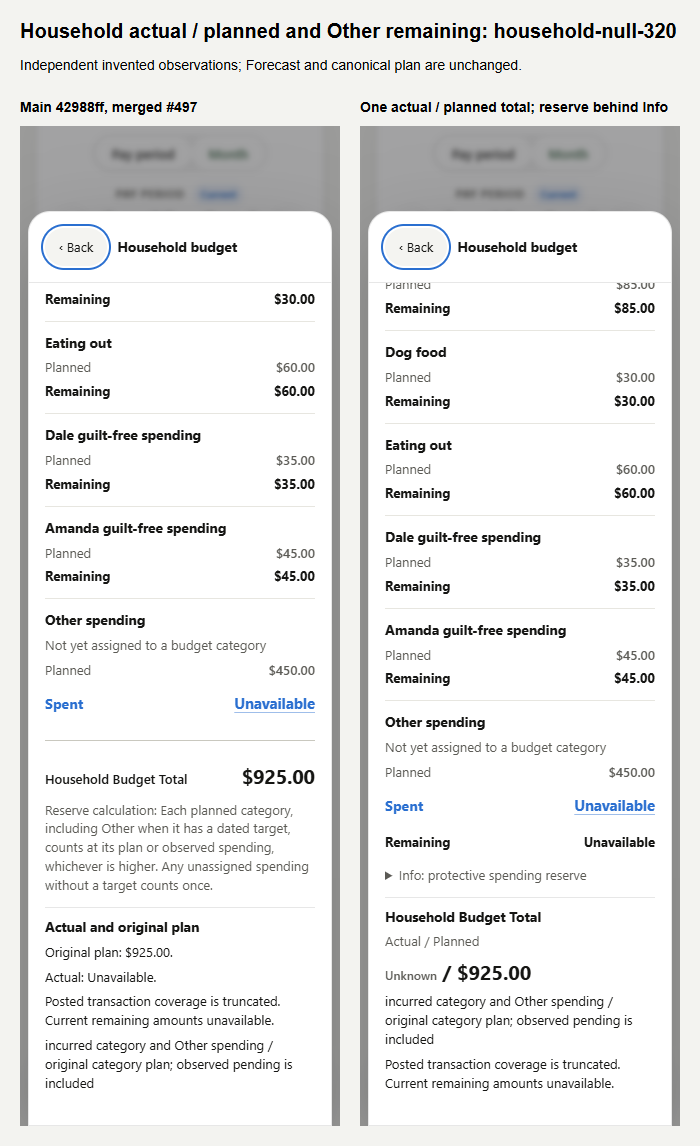
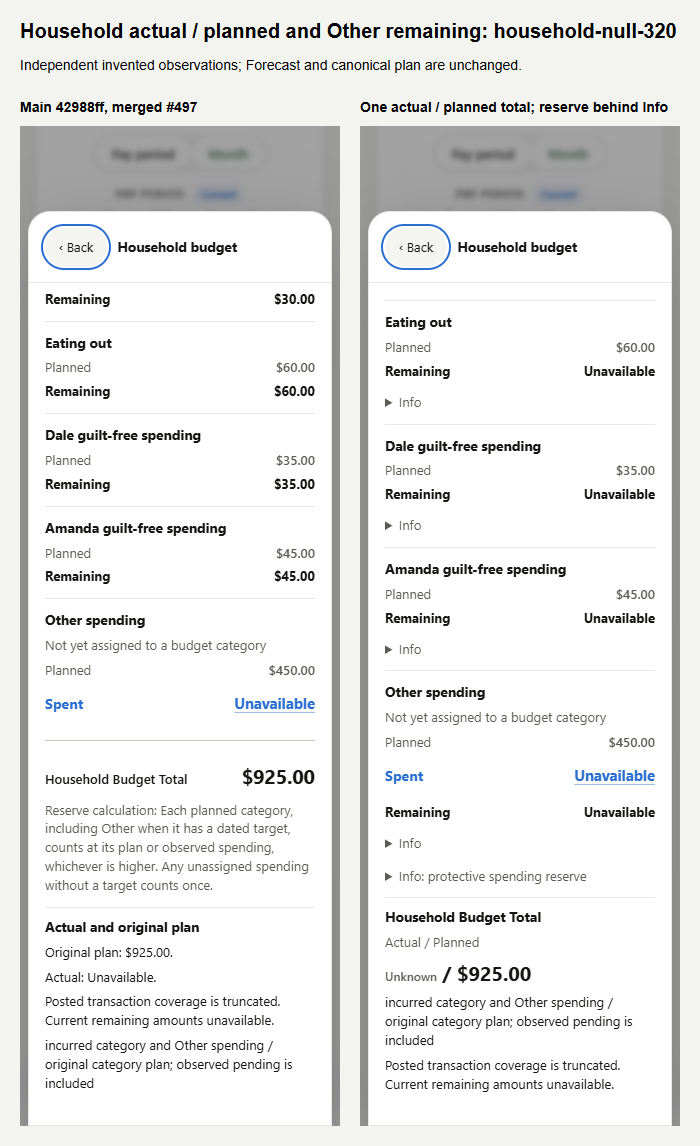
fix(budget): withhold exact remaining under incomplete pending evidence

diff --git a/public/plan.js b/public/plan.js
@@ -2200,6 +2200,7 @@ function householdBudgetCategoryHtml(row, opts = {}) {
   const contextHtml = context
     ? `<p class="household-budget-context">${context}</p>` : '';
   const recon = Array.isArray(row.recon) ? row.recon : [];
+  const remainingUnavailable = opts.remainingEvidenceIncomplete === true;
   const metrics = [];
   if ((!other && !historicalPlanUnknown || datedOtherPlan) && row.planned != null) {
     if (historicalPlanUnknown) metrics.push(householdBudgetMetric('Configured target', row.planned, { estimated }));
@@ -2209,7 +2210,7 @@ function householdBudgetCategoryHtml(row, opts = {}) {
     metrics.push(householdBudgetMetric('Spent', row.spent, { recon, id: row.id, unavailableText: datedOtherPlan ? 'Unavailable' : null }));
   }
   if ((!other || datedOtherPlan) && !historicalPlanUnknown && (row.remaining != null || datedOtherPlan)) {
-    metrics.push(householdBudgetMetric('Remaining', row.remaining, { remaining: true, estimated, unavailableText: datedOtherPlan ? 'Unavailable' : null }));
+    metrics.push(householdBudgetMetric('Remaining', remainingUnavailable ? null : row.remaining, { remaining: true, estimated, unavailableText: datedOtherPlan || remainingUnavailable ? 'Unavailable' : null }));
   }
   const kind = other ? 'other' : 'category';
   const projected = (!other || datedOtherPlan) && !historicalPlanUnknown && row.projected && row.remaining != null
@@ -2220,11 +2221,12 @@ function householdBudgetCategoryHtml(row, opts = {}) {
     ${contextHtml}
     ${historicalPlanUnknown && (!other || datedOtherPlan) ? '<p class="household-budget-context" data-budget-historical-original-plan="unavailable">Historical original plan unavailable. No dated plan snapshot confirms this period\'s target or remaining amount. Today\'s configured target does not establish the historical plan.</p>' : ''}
     <dl class="household-budget-metrics">${metrics.join('')}</dl>
+    ${remainingUnavailable && !historicalPlanUnknown && (!other || datedOtherPlan) ? `<details class="household-budget-remaining-info" data-budget-remaining-info><summary>Info</summary><p>${budgetBrowseEscape(opts.remainingEvidenceReason || 'Exact remaining spending is unavailable because period evidence is incomplete.')}</p></details>` : ''}
     ${projected}
   </div>`;
 }
 
-function calendarBudgetHtml(period, liveOverlay, plan) {
+function calendarBudgetHtml(period, liveOverlay, plan, opts = {}) {
   if (period && period.operatingPlanUnavailable) {
     return `<div class="payday-household-budget" data-payday-household-budget>
       ${calendarCurrentUnavailableHtml(period)}
@@ -2234,7 +2236,9 @@ function calendarBudgetHtml(period, liveOverlay, plan) {
   // Forecast has no original-category-plan snapshot for completed periods.
   // Context changes presentation only; never rewrite the sealed native rows.
   const categoryContext = { historicalOriginalPlanUnavailable:
-    period?.timelineRole === 'past' || period?.lookback === true };
+    period?.timelineRole === 'past' || period?.lookback === true,
+    remainingEvidenceIncomplete: opts.remainingEvidenceIncomplete === true,
+    remainingEvidenceReason: opts.remainingEvidenceReason };
   const reserveRule = categoryContext.historicalOriginalPlanUnavailable ? ''
     : '<p class="operating-note" data-budget-reserve-rule>Reserve calculation: Each planned category, including Other when it has a dated target, counts at its plan or observed spending, whichever is higher. Any unassigned spending without a target counts once.</p>';
   const cycleText = householdBudgetCycleText(period);
@@ -4363,7 +4367,8 @@ function calendarWaterfallHtml(period, liveOverlay, alloc, plan, compactOverview
       { amount: period.periodBillLoad, trust: period.periodBillLoadTrust, trustRequired: true, barStart: period.afterBills, note: 'Period deduction, including required debt minimums' })}
     ${q('05', 'Balance after bills', planUnavailable ? unavailable : runningLeftoverHtml(period.afterBills != null ? period.afterBills : period.afterRemainingBills), 'balance',
       { amount: period.afterBills != null ? period.afterBills : period.afterRemainingBills, trust: period.afterBillsTrust, trustRequired: true, barStart: 0, note: 'Period income after the bill deduction' })}
-    ${q('06', 'Household budget', planUnavailable ? unavailable : calendarBudgetHtml(period, liveOverlay, plan), null,
+    ${q('06', 'Household budget', planUnavailable ? unavailable : calendarBudgetHtml(period, liveOverlay, plan,
+      compactOverview ? budgetRemainingEvidenceContext(period) : {}), null,
       { amount: period.budgetHold, trust: period.budgetHoldTrust, barStart: period.afterHouseholdBudget, note: 'Targets, actual spending and the period reserve' })}
     ${q('savings', compactOverview ? 'Savings' : 'Proposed savings', planUnavailable ? unavailable : fundingBody, null,
       { amount: fundingKnown ? funding.contribution : null, trust: fundingKnown ? funding.trust : 'unavailable', trustRequired: true, discloseUnknown: true, barStart: fundedBalanceKnown ? funding.afterProposedFunding : null, note: 'Named costs — proposed funding, separate from actual saved cash' })}
@@ -5955,6 +5960,16 @@ function budgetProgressAmountKnown(field) {
     && typeof field.amount === 'number' && Number.isFinite(field.amount);
 }
 
+function budgetRemainingEvidenceContext(period, asOf) {
+  // A projected allowance is labeled as such, and historical original plans
+  // are already withheld. Current Remaining requires complete actual evidence.
+  if (period?.projected || budgetBrowseHistorical(period)) return {};
+  const publication = arguments.length > 1 ? budgetProgressFor(period, asOf) : budgetProgressFor(period);
+  const actual = publication?.household?.actual;
+  return { remainingEvidenceIncomplete: !budgetProgressAmountKnown(actual) || actual.completeness !== 'complete',
+    remainingEvidenceReason: actual?.reason || 'Exact remaining spending is unavailable because period evidence is incomplete.' };
+}
+
 function budgetProgressValueHtml(pair, key) {
   const amount = (field, planned = false) => budgetProgressAmountKnown(field) && (!planned || field.amount >= 0)
     ? budgetBrowseMoney(field.amount, field.trust) : '<span class="budget-v3-unknown">Unknown</span>';
@@ -5993,9 +6008,11 @@ function budgetProgressEvidenceHtml(pair, key) {
 
 function budgetSpendingSectionHtml(period, ctx) {
   const rows = (period.householdBudget || []).filter(Boolean);
+  const remainingEvidence = budgetRemainingEvidenceContext(period, ctx.asOf);
   const planned = rows.filter(row => !row.informational && ((!row.otherSpending && !row.needsConfirmation)
     || (row.otherSpending && isValidIsoCalendarDate(row.targetEffectiveFrom) && budgetBrowseKnown(row.planned))));
-  const classified = planned.filter(row => budgetCategoryPresentation(row).spentKnown && budgetBrowseKnown(row.remaining));
+  const classified = planned.filter(row => !remainingEvidence.remainingEvidenceIncomplete
+    && budgetCategoryPresentation(row).spentKnown && budgetBrowseKnown(row.remaining));
   const over = classified.filter(row => budgetBrowseKnown(row.overspend) && row.overspend > 0);
   const model = budgetWindowModel(ctx), cycle = period.spendingCycle;
   const datesKnown = cycle && isValidIsoCalendarDate(cycle.start) && isValidIsoCalendarDate(cycle.end)
@@ -6020,8 +6037,10 @@ function budgetSpendingSectionHtml(period, ctx) {
     // native row/evidence intact, but do not relabel today's category targets
     // as historical plans, remaining amounts or progress geometry here.
     const displayRow = historicalPlanUnknown && (!row.otherSpending || budgetBrowseKnown(row.planned))
-      ? { ...row, planned: null, plannedTrust: 'unavailable', remaining: null, overspend: null } : row;
+      ? { ...row, planned: null, plannedTrust: 'unavailable', remaining: null, overspend: null }
+      : remainingEvidence.remainingEvidenceIncomplete ? { ...row, remaining: null, overspend: null } : row;
     const state = budgetCategoryPresentation(displayRow);
+    if (remainingEvidence.remainingEvidenceIncomplete && state.spentKnown) state.label = 'Remaining unavailable';
     const meta = state.other && !budgetBrowseKnown(displayRow.planned) ? budgetBrowseEscape(row.note || 'Not yet assigned to a category')
       : `<span class="budget-cash-sr">Spent </span>${budgetBrowseMoney(row.spent, row.trust)}<span aria-hidden="true"> / </span><span class="budget-cash-sr"> of planned </span>${budgetBrowseMoney(displayRow.planned, state.trust)}`;
     return `<button type="button" class="budget-category-row is-${state.kind}" data-budget-category-open="${budgetBrowseEscape(row.id)}" data-budget-browse-origin="spending" aria-haspopup="dialog">

diff --git a/test/browser-budget-household-total.js b/test/browser-budget-household-total.js
@@ -3,12 +3,15 @@ const assert=require('node:assert/strict'),fs=require('node:fs'),path=require('n
 const fx=require('./fixtures/other-period-target'),root=process.env.ATLAS_HOUSEHOLD_TOTAL_ROOT||path.join(__dirname,'..');
 const out=process.env.ATLAS_BUDGET_SCREENSHOTS_DIR||path.join(require('node:os').tmpdir(),'household-total-browser');fs.mkdirSync(out,{recursive:true});
 const baseline=process.env.ATLAS_HOUSEHOLD_TOTAL_BASELINE==='1';
+const beforeP1=process.env.ATLAS_HOUSEHOLD_TOTAL_BASELINE==='5b';
 // Invented published observations: six plans = 475, groceries spent = 110.37.
 const actuals={0:'110.37',137.26:'247.63',450:'560.37',618.73:'729.10',1034.19:'1,144.56'};
 const remaining={0:'450.00',137.26:'312.74',450:'0.00',618.73:'−$168.73',1034.19:'−$584.19'};
 (async()=>{const browser=await chromium.launch({executablePath:process.env.CHROME_PATH,headless:true});
-try{for(const width of [1440,390,320])for(const state of width===320?[0,137.26,450,618.73,1034.19,null,'history','next']:width===390?[137.26,450,618.73]:[137.26,618.73]){
- const historical=state==='history',future=state==='next',f=fx.build(typeof state==='number'?state:137.26,historical?'2026-10-18':fx.asOf);
+try{for(const width of [1440,390,320])for(const state of width===320?[0,137.26,450,618.73,1034.19,null,'history','next','pending-partial','pending-unknown','complete-pending']:width===390?[137.26,450,618.73,'pending-unknown']:[137.26,618.73,'pending-partial']){
+ const historical=state==='history',future=state==='next',incompletePending=state==='pending-partial'||state==='pending-unknown',completePending=state==='complete-pending';
+ const f=fx.build(typeof state==='number'?state:137.26,historical?'2026-10-18':fx.asOf,
+  {pendingCoverage:incompletePending?state.slice(8):'complete',pendingOther:completePending?17.43:undefined});
  if(state===null)f.packet.transactionCoverage='truncated';
  const page=await browser.newPage({viewport:{width,height:1000},colorScheme:'light',reducedMotion:'reduce'}),errors=[],external=[];
  page.on('pageerror',e=>errors.push(e.message));
@@ -31,7 +34,14 @@ try{for(const width of [1440,390,320])for(const state of width===320?[0,137.26,4
   assert.match(await body.innerText(),/Actual \/ Planned/);
   const total=body.locator('[data-household-budget-progress-total]');
   const a=await total.locator('[data-budget-ratio-actual]').innerText(),p=await total.locator('[data-budget-ratio-plan]').innerText();
-  assert.match(a,state===null||future?/Unknown/:new RegExp((historical?'247.63':actuals[state]).replace('.','\\.')));
+  assert.match(a,state===null||future?/Unknown/:new RegExp((completePending?'265.06':historical||incompletePending?'247.63':actuals[state]).replace('.','\\.')));
+  if(incompletePending){
+   assert.equal(f.packet.pendingCoverage,state.slice(8),'actual provider sanitized coverage, not a substituted publication');
+   assert.equal(await total.locator('[data-budget-progress-partial]').count(),1);
+   const nativeOther=body.locator('[data-budget-category="other-spending"] .household-budget-remaining dd');
+   assert.match(await nativeOther.innerText(),beforeP1?/312\.74/:/Unavailable/,'opened household sheet propagates the same actual completeness to Other');
+   if(!beforeP1)assert.equal(await body.locator('.household-budget-remaining dd').filter({hasText:/^Unavailable$/}).count(),7);
+  }
   assert.match(p,historical?/Unknown/:/925\.00/,'original plan survives overspending and missing actuals');
   const info=body.locator('[data-budget-reserve-info]'),reserve=info.locator('[data-household-budget-total-amount]');
   assert.equal(await info.evaluate(el=>el.open),false);assert.equal(await reserve.isVisible(),false,'reserve is withheld from default visible totals');
@@ -54,16 +64,24 @@ try{for(const width of [1440,390,320])for(const state of width===320?[0,137.26,4
  if(!baseline&&!historical){
   const metric=other.locator('.household-budget-remaining');
   assert.equal(await metric.locator('dt').innerText(),'Remaining');
-  assert.match(await metric.locator('dd').innerText(),state===null?/Unavailable/:future?/450\.00/:new RegExp(remaining[state].replace('$','\\$').replace('.','\\.')));
+  assert.match(await metric.locator('dd').innerText(),state===null||incompletePending&&!beforeP1?/Unavailable/:incompletePending?/312\.74/:completePending?/295\.31/:future?/450\.00/:new RegExp(remaining[state].replace('$','\\$').replace('.','\\.')));
   if(future){assert.match(await other.innerText(),/Projected/);assert.match(await metric.locator('dd').innerText(),/estimated/);}
  }else assert.equal(await other.locator('.household-budget-remaining').count(),0,'historical original remaining stays unknown');
  if(historical)assert.match(await other.innerText(),/Historical original plan unavailable/);
  if(!future&&state!==null&&state!==0)assert.match(await other.innerText(),/invented-other/);
  if(state===0)assert.match(await other.innerText(),/Spent[\s\S]*\$0\.00/,'complete zero spending needs no invented merchant');
  await page.screenshot({path:path.join(out,`other-remaining-${state}-${width}.png`),animations:'disabled'});
+ if(incompletePending&&!baseline&&!beforeP1){
+  const info=other.locator('[data-budget-remaining-info]'),control=info.locator(':scope > summary');
+  assert.equal(await info.evaluate(el=>el.open),false);await control.focus();await page.keyboard.press('Enter');
+  assert.equal(await info.locator('p').isVisible(),true);assert.match(await info.innerText(),/pending|coverage/i);
+  if(state==='pending-partial'&&width===320)await page.screenshot({path:path.join(out,'other-remaining-pending-partial-info-320.png'),animations:'disabled'});
+  await control.focus();await page.keyboard.press('Enter');assert.equal(await info.locator('p').isVisible(),false);
+ }
  await page.keyboard.press('Escape');assert.equal(await otherTrigger.evaluate(el=>el===document.activeElement),true);
  assert.equal(await otherTrigger.evaluate(el=>{const r=el.getBoundingClientRect(),dock=document.querySelector('.sitenav-household');
   const limit=dock&&getComputedStyle(dock).position==='fixed'?dock.getBoundingClientRect().top:innerHeight;return r.top>=0&&r.bottom<=limit;}),true);
  assert.equal(await page.evaluate(()=>document.documentElement.scrollWidth<=innerWidth),true);
- assert.deepEqual(errors,[]);assert.deepEqual(external,[]);await page.close();console.log(`PASS ${width}px ${state}: opened native actual/planned total, reserve Info, Other remaining, keyboard/focus and unavailable/history scope${baseline?' BASELINE':''}`);
+ if(incompletePending&&!baseline&&!beforeP1)assert.doesNotMatch(await otherTrigger.innerText(),/312\.74 left/);
+ assert.deepEqual(errors,[]);assert.deepEqual(external,[]);await page.close();console.log(`PASS ${width}px ${state}: opened native actual/planned total, reserve Info, Other remaining, keyboard/focus and unavailable/history scope${baseline?' BASELINE':beforeP1?' P1 BASELINE':''}`);
 }}finally{await browser.close();}})().catch(e=>{console.error(e);process.exitCode=1;});

diff --git a/test/test-budget-household-total-display.js b/test/test-budget-household-total-display.js
@@ -39,6 +39,33 @@ const mp=publish(missing).payPeriodViews.find(p=>p.timelineRole==='current'),mh=
 assert.match(total(mh),/data-budget-ratio-actual><span class="budget-v3-unknown">Unknown/);
 assert.ok(total(mh).includes(money(925)),'unknown actual retains original plan');
 assert.match(mh.split('data-budget-category="other-spending"')[1],/<dt>Remaining<\/dt><dd>Unavailable<\/dd>/);
+// Real provider sanitization -> recommend -> sealed publication -> active
+// native household sheet. Do not inject or substitute a progress publication.
+for(const pendingCoverage of ['partial','unknown']){
+ const f=fx.build(137.26,fx.asOf,{pendingCoverage}),input=JSON.stringify(f),p=publish(f).payPeriodViews.find(p=>p.timelineRole==='current');
+ assert.equal(f.packet.pendingCoverage,pendingCoverage);
+ assert.equal(p.budgetProgress.coverage.remainingClaim,'posted-only');
+ assert.equal(p.budgetProgress.household.actual.completeness,'partial');
+ assert.equal(p.budgetProgress.household.actual.amount,247.63);
+ assert.equal(p.householdBudget.find(r=>r.id==='other-spending').remaining,312.74,'engine publication stays unchanged; display must qualify completeness');
+ assert.equal(p.budgetHold,925);assert.equal(p.balanceAfterDeductions,475);
+ const sealed=JSON.stringify(p),html=sheet(render(p,f.plan)),other=html.split('data-budget-category="other-spending"')[1].split('</dl>')[0];
+ assert.match(total(html),/247\.63[\s\S]*partial evidence/);
+ assert.ok(total(html).includes(money(925)));assert.match(other,/<dt>Remaining<\/dt><dd>Unavailable<\/dd>/);
+ assert.doesNotMatch(other,/312\.74/);
+ assert.equal((html.match(/<dt>Remaining<\/dt><dd>Unavailable<\/dd>/g)||[]).length,7,'all native household Remaining rows carry the incomplete period context');
+ assert.match(html,/data-budget-remaining-info/,'explanation stays behind Info in the same movable category node');
+ context.period=p;context.displayCtx={asOf:f.date,plan:f.plan,advice:publish(f)};
+ const browse=vm.runInContext('budgetSpendingSectionHtml(period,displayCtx)',context);
+ assert.doesNotMatch(browse,/312\.74 left|All used/,'browse cannot retain an unqualified remaining claim beside the repaired native sheet');
+ assert.match(browse,/Remaining unavailable/);
+ assert.equal(JSON.stringify(p),sealed);assert.equal(JSON.stringify(f),input);
+}
+const completePending=fx.build(137.26,fx.asOf,{pendingOther:17.43}),cp=publish(completePending).payPeriodViews.find(p=>p.timelineRole==='current');
+assert.equal(cp.budgetProgress.household.actual.completeness,'complete');assert.equal(cp.budgetProgress.household.actual.includesPending,true);
+assert.equal(cp.budgetProgress.household.actual.amount,265.06);assert.equal(cp.householdBudget.find(r=>r.id==='other-spending').remaining,295.31);
+const ch=sheet(render(cp,completePending.plan));assert.match(ch.split('data-budget-category="other-spending"')[1],/<dt>Remaining<\/dt>[\s\S]*295\.31/);
+assert.doesNotMatch(ch,/data-budget-remaining-info/,'fully covered observed pending does not lose its known Remaining');
 const historical=fx.build(137.26,'2026-10-18'),hp=publish(historical).payPeriodViews.find(p=>p.start===fx.effective);
 const hh=sheet(render(hp,historical.plan));
 assert.ok(total(hh).includes(money(247.63)));assert.match(total(hh),/data-budget-ratio-plan><span class="budget-v3-unknown">Unknown/);

diff --git a/test/fixtures/other-period-target.js b/test/fixtures/other-period-target.js
@@ -3,7 +3,7 @@
 const clone=x=>JSON.parse(JSON.stringify(x));
 const O=require('../../scripts/provider-observe');
 const effective='2026-09-25',asOf='2026-10-04';
-function build(other=137.26,date=asOf){
+function build(other=137.26,date=asOf,opts={}){
  const start=date<effective?'2026-09-11':effective,end=date<effective?'2026-09-24':'2026-10-08';
  const plan={opening:{asOf:date,priorAsOf:start,representedEvents:[]},defaults:{targetBuffer:0,extraDebtMonthly:0},
   startingCash:{breakdown:[{id:'chequing-a',label:'Invented bills',value:2700,evidenceDate:date,confidence:'confirmed'},
@@ -20,12 +20,14 @@ function build(other=137.26,date=asOf){
    {id:'invented-other',date:start,account:'chequing-b',accountRole:'household-cash',amount:other,categoryLabel:'Uncategorised',currency:'cad',pending:false},
    {id:'invented-grocery',date:start,account:'chequing-b',accountRole:'household-cash',amount:110.37,categoryLabel:'Groceries',currency:'cad',pending:false},
    {id:'invented-transfer',date:start,account:'chequing-a',accountRole:'household-cash',amount:93.72,categoryLabel:'Transfer',kind:'transfer',currency:'cad',pending:false},
+   ...(opts.pendingOther!=null?[{id:'invented-pending-other',date,account:'chequing-b',accountRole:'household-cash',amount:opts.pendingOther,categoryLabel:'Uncategorised',currency:'cad',pending:true}]:[]),
    ...(date>=effective?[{id:'invented-prior-other',date:'2026-09-12',account:'chequing-b',accountRole:'household-cash',amount:83.14,categoryLabel:'Uncategorised',currency:'cad',pending:false}]:[])]};
  const accountMap={mappings:[{providerAccountId:'invented-a',atlasRole:'household-cash',canonical:{id:'chequing-a',collection:'cash'}},
   {providerAccountId:'invented-b',atlasRole:'household-cash',canonical:{id:'chequing-b',collection:'cash'}}]};
  const transactions=packet.transactions.map(tx=>({...tx,providerTransactionId:tx.id,providerAccountId:tx.account==='chequing-a'?'invented-a':'invented-b',payee:tx.id}));
  packet=O.sanitizedCurrentPeriodActuals({transactions,representedEventCandidates:[],fetchedAt:date+'T18:00:00.000Z',
-  transactionWindow:{startDate:'2026-09-10',endDate:date,complete:true,hasMore:false,truncated:false},pendingCoverage:{complete:true}},
+  transactionWindow:{startDate:'2026-09-10',endDate:date,complete:true,hasMore:false,truncated:false},
+  pendingCoverage:opts.pendingCoverage==='partial'?{complete:false,status:'bounded-window'}:opts.pendingCoverage==='unknown'?{complete:false}:{complete:true}},
   {asOf:date,plan,accountMap,identityRules:[]});
  const data={meta:{asOf:date,title:'Invented Other target'},accounts:[],debts:[],revolvingExtra:[],plan,
   liveOverlay:{applied:true,operatingPlan:'live',asOf:date,currentPeriodActuals:packet}};

diff --git a/public/budget-surface.css b/public/budget-surface.css
@@ -310,8 +310,8 @@
 .budget-progress-evidence h3 { font-size:14px; }
 .budget-household-total-label { color:var(--text-secondary); margin-bottom:4px; }
 .budget-household-total > strong { display:block; font-size:20px; font-variant-numeric:tabular-nums; overflow-wrap:anywhere; }
-.household-budget-reserve-info { margin-top:12px; font-size:13px; }
-.household-budget-reserve-info > summary { cursor:pointer; color:var(--text-secondary); }
+.household-budget-reserve-info, .household-budget-remaining-info { margin-top:12px; font-size:13px; }
+.household-budget-reserve-info > summary, .household-budget-remaining-info > summary { cursor:pointer; color:var(--text-secondary); }
 .budget-browse-bills h2 [data-budget-ratio] { white-space:normal; }
 .budget-surface-period :is([data-operating-question="05"],[data-operating-question="07"]) .budget-waterfall-track { display:none; }
 .budget-surface-period :is([data-operating-question="05"],[data-operating-question="07"]) .budget-step-value { grid-column:4; }

diff --git a/docs/design/budget-household-total/README.md b/docs/design/budget-household-total/README.md
@@ -33,6 +33,16 @@ stays unknown and is omitted; a future remaining estimate keeps its estimated
 marker and **Projected** context. Existing transaction nodes and focus
 restoration remain on the same native sheet path.
 
+P1 review found that complete posted coverage with partial or unknown pending
+coverage still printed an exact Remaining. The current renderer now carries
+the sealed household actual's completeness into every current category's
+Remaining, including the standalone native Other sheet. Incomplete evidence
+shows **Unavailable**, with the existing publication reason behind closed
+**Info**. The spending browse rows also withhold exact remaining amounts.
+Known posted spending, original plans, transaction evidence and the engine's
+protective deductions remain unchanged. Complete evidence preserves signed
+and zero Remaining; historical and projected contexts retain their semantics.
+
 No Forecast, policy, canonical input, deduction chain, generated report or
 transaction membership changes. Existing reserve tests retain their numerical
 assertions; only the reserve's user-facing label expectations change.
@@ -55,13 +65,23 @@ composer, independent cents, immutable captured inputs/publications, preserved
 deductions, current / missing / history / future and pending trust.
 It is registered in the 293-suite `npm test` runner.
 
+The P1 regressions use real provider sanitization, recommendation, publication
+and the active native composer. Partial and unknown pending coverage produce
+posted-only evidence and a partial household actual of 247.63; Remaining is
+withheld on both native paths. No publication is substituted in these pipeline
+cases. A fully observed pending Other transaction of 17.43 produces complete
+actual 265.06 and known Remaining 295.31. Publications and inputs stay immutable.
+
 `test/browser-budget-household-total.js` uses actual `App.boot` with intercepted
-HTTP and invented inputs at 1440, 390 and 320px. Thirteen views open the native
+HTTP and invented inputs at 1440, 390 and 320px. Eighteen views open the native
 household and Other sheets. They verify the one total, unchanged original plan,
 hidden reserve until keyboard opening, signed/missing Remaining, historical
 unknown plan, projected trust, Escape focus restoration, visible restored
 focus above the mobile dock, and no horizontal overflow. No production
 credentials or live observations are accessed.
+Partial/unknown pending coverage is checked on both sheets, including keyboard
+opening and closing of Remaining Info. Before-P1 captures against exact head
+`5b7191b` reproduce the misleading exact amount through the same pipeline.
 
 | View | Artifact |
 |---|---|
@@ -73,6 +93,9 @@ credentials or live observations are accessed.
 | Completed period, original plan unknown | [Native sheet](household-history-320.png) |
 | Future period, actual unknown | [Native sheet](household-next-320.png) |
 | Unchanged reserve behind opened Info | [Native sheet](household-reserve-info-320.png) |
+| Partial pending coverage, household before/after | [Comparison](comparison-p1-household-pending-partial-320.png) |
+| Partial pending coverage, Other before/after | [Comparison](comparison-p1-other-remaining-pending-partial-320.png) |
+| Other Remaining reason behind keyboard-opened Info | [Native sheet](other-remaining-pending-partial-info-320.png) |
 
 ## Finite acceptance checklist
 
@@ -81,6 +104,7 @@ credentials or live observations are accessed.
 - Unchanged original plan, reserve and financial deductions.
 - Other Remaining: positive, zero, negative and unknown without fabricated history.
 - Pending, partial, projected and unavailable evidence remain labeled.
+- Partial/unknown pending coverage withholds exact Remaining on both native paths; complete pending preserves it.
 - Desktop / mobile / 320px; native transactions and restored focus remain reachable.
 - Exact-head unit, authority/financial-contract, full required CI and screenshot audit recorded in the PR.
 
